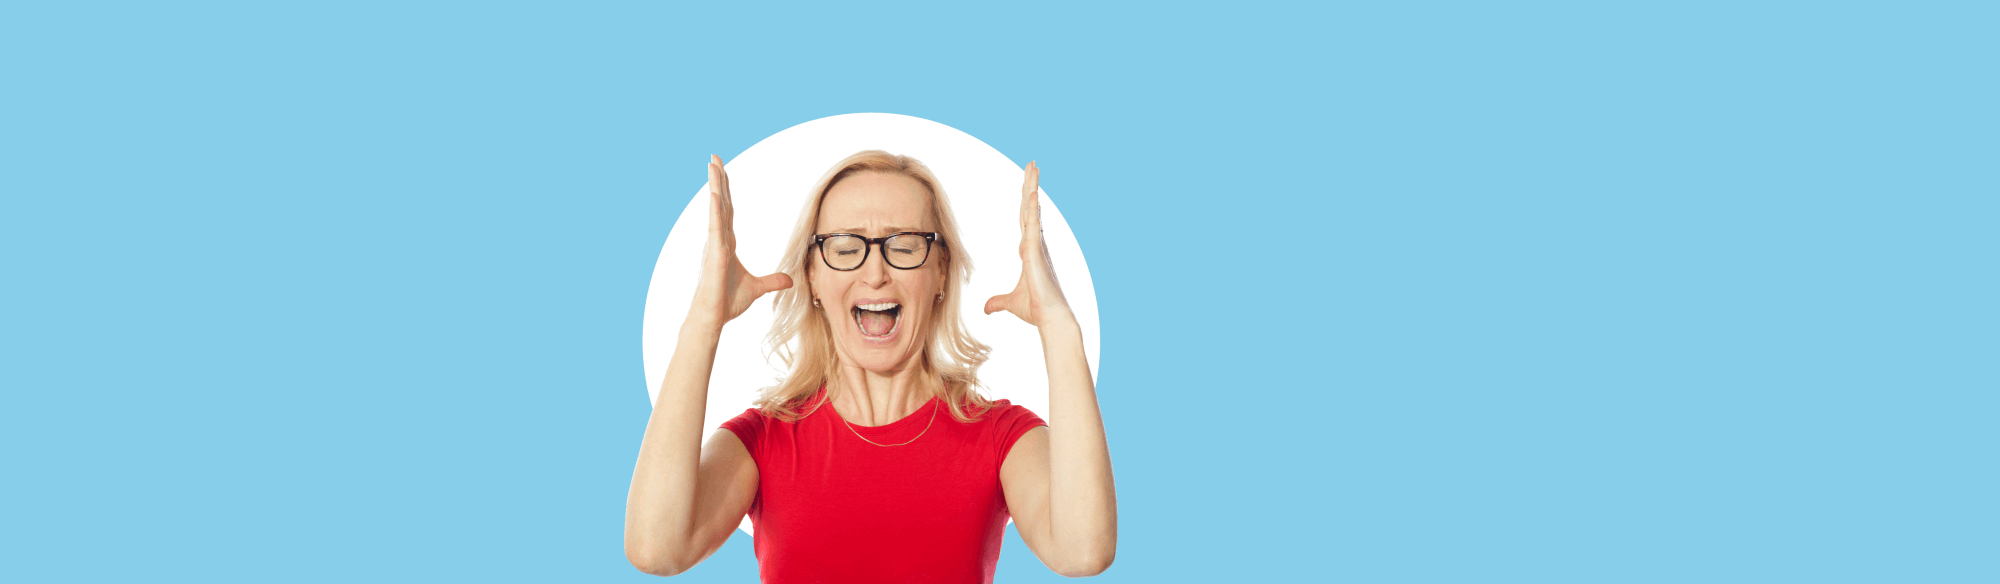
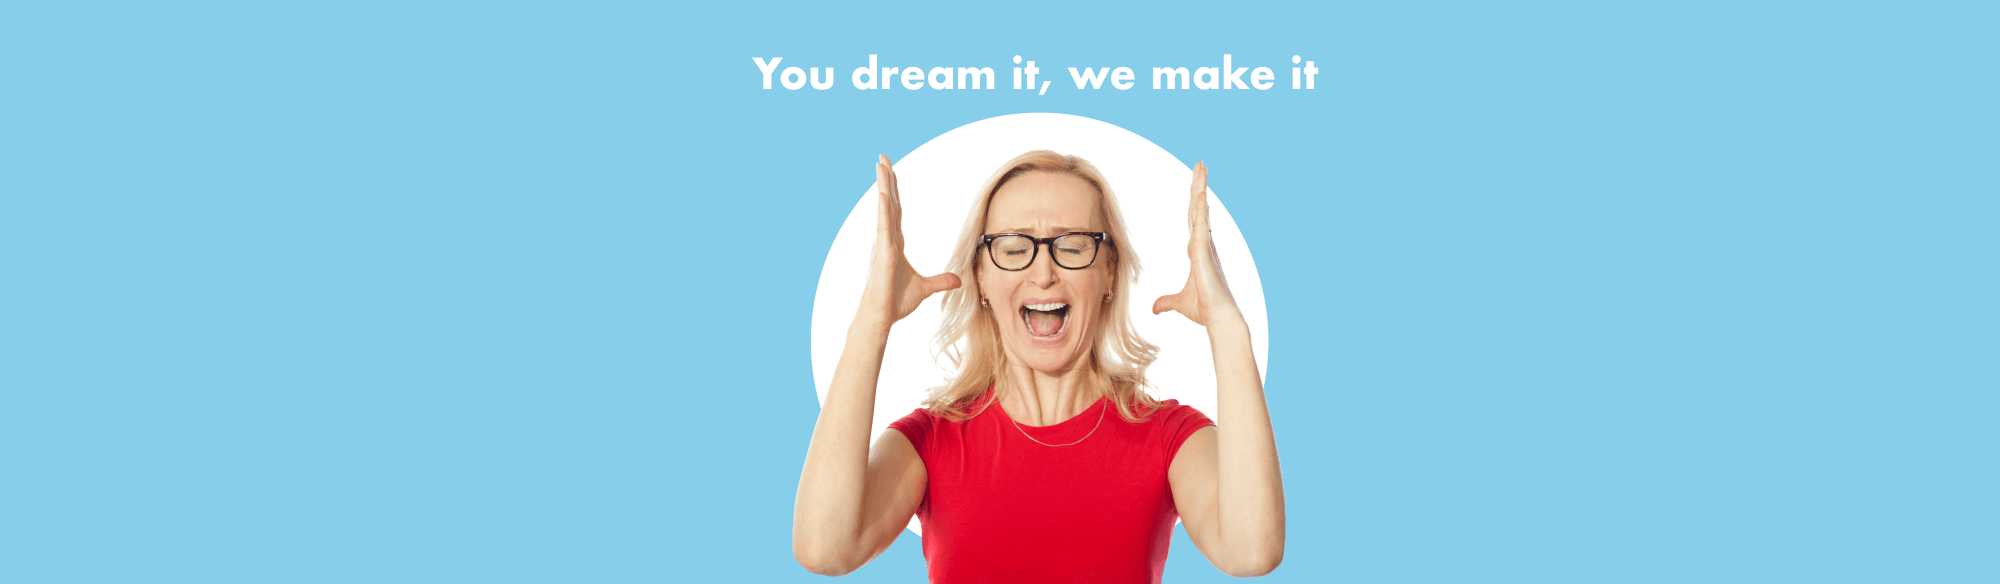
create github pages

Changed region(s): [[0.31, 0.1849, 0.651, 1.0], [0.372, 0.0925, 0.682, 0.1541]]

diff --git a/ecommerce.html b/ecommerce.html
@@ -70,7 +70,7 @@ j=d.createElement(s),dl=l!='dataLayer'?'&l='+l:'';j.async=true;j.src=
     </nav>
 </section>
 
-<section class="engine"><a href="https://mobirise.me/m">free web design templates</a></section><div id="custom-html-gw" custom-code="true" data-rv-view="2126"><!-- Google Tag Manager (noscript) -->
+<section class="engine"><a href="https://mobirise.me/b">how to create a site for free</a></section><div id="custom-html-gw" custom-code="true" data-rv-view="2126"><!-- Google Tag Manager (noscript) -->
 <noscript>&amp;amp;amp;amp;amp;amp;amp;lt;iframe src="https://www.googletagmanager.com/ns.html?id=GTM-P2K6HJJ"
 height="0" width="0" style="display:none;visibility:hidden"&amp;amp;amp;amp;amp;amp;amp;gt;&amp;amp;amp;amp;amp;amp;amp;lt;/iframe&amp;amp;amp;amp;amp;amp;amp;gt;</noscript>
 <!-- End Google Tag Manager (noscript) --></div>
@@ -94,7 +94,7 @@ height="0" width="0" style="display:none;visibility:hidden"&amp;amp;amp;amp;amp;
                 <div data-form-alert="" hidden="">Thanks for filling out the form!</div>
 
                 <form class="form-inline" action="https://mobirise.com/" method="post" data-form-title="Mobirise Form">
[2 lines of base64/hex data omitted]
                     <div class="form-group">
                         <input type="text" class="form-control input-sm input-inverse" name="name" required="" data-form-field="Name" placeholder="Name" id="name-header13-cu">
                     </div>
@@ -475,7 +475,7 @@ height="0" width="0" style="display:none;visibility:hidden"&amp;amp;amp;amp;amp;
     <div class="form-container">
         <div class="media-container-column" data-form-type="formoid">
             <div data-form-alert="" hidden="" class="align-center">Thanks for filling out the form!</div>
[2 lines of base64/hex data omitted]
                 <div data-for="name">
                     <div class="form-group">
                         <input type="text" class="form-control px-3" name="name" data-form-field="Name" placeholder="Name" required="" id="name-header15-da">
@@ -545,7 +545,7 @@ height="0" width="0" style="display:none;visibility:hidden"&amp;amp;amp;amp;amp;
                     <div data-form-alert="" hidden="" class="align-center">Thanks for filling out the form!</div>
 
                     <form class="form-inline" action="https://mobirise.com/" method="post" data-form-title="Mobirise Form">
[2 lines of base64/hex data omitted]
                         <div class="form-group">
                             <input type="email" class="form-control input-sm input-inverse my-2" name="email" required="" data-form-field="Email" placeholder="Email" id="email-footer4-gb">
                         </div>

diff --git a/smallbusiness.html b/smallbusiness.html
@@ -70,7 +70,7 @@ j=d.createElement(s),dl=l!='dataLayer'?'&l='+l:'';j.async=true;j.src=
     </nav>
 </section>
 
-<section class="engine"><a href="https://mobirise.me/r">free bootstrap template</a></section><div id="custom-html-gy" custom-code="true" data-rv-view="2168"><!-- Google Tag Manager (noscript) -->
+<section class="engine"><a href="https://mobirise.me/c">site builder</a></section><div id="custom-html-gy" custom-code="true" data-rv-view="2168"><!-- Google Tag Manager (noscript) -->
 <noscript>&amp;amp;amp;amp;amp;amp;amp;lt;iframe src="https://www.googletagmanager.com/ns.html?id=GTM-P2K6HJJ"
 height="0" width="0" style="display:none;visibility:hidden"&amp;amp;amp;amp;amp;amp;amp;gt;&amp;amp;amp;amp;amp;amp;amp;lt;/iframe&amp;amp;amp;amp;amp;amp;amp;gt;</noscript>
 <!-- End Google Tag Manager (noscript) --></div>
@@ -93,7 +93,7 @@ height="0" width="0" style="display:none;visibility:hidden"&amp;amp;amp;amp;amp;
                 <div data-form-alert="" hidden="">Thanks for filling out the form!</div>
 
                 <form class="form-inline" action="https://mobirise.com/" method="post" data-form-title="Mobirise Form">
[2 lines of base64/hex data omitted]
                     <div class="form-group">
                         <input type="text" class="form-control input-sm input-inverse" name="name" required="" data-form-field="Name" placeholder="Name" id="name-header13-dc">
                     </div>
@@ -502,7 +502,7 @@ height="0" width="0" style="display:none;visibility:hidden"&amp;amp;amp;amp;amp;
     <div class="form-container">
         <div class="media-container-column" data-form-type="formoid">
             <div data-form-alert="" hidden="" class="align-center">Thanks for filling out the form!</div>
[2 lines of base64/hex data omitted]
                 <div data-for="name">
                     <div class="form-group">
                         <input type="text" class="form-control px-3" name="name" data-form-field="Name" placeholder="Name" required="" id="name-header15-ds">
@@ -572,7 +572,7 @@ height="0" width="0" style="display:none;visibility:hidden"&amp;amp;amp;amp;amp;
                     <div data-form-alert="" hidden="" class="align-center">Thanks for filling out the form!</div>
 
                     <form class="form-inline" action="https://mobirise.com/" method="post" data-form-title="Mobirise Form">
[2 lines of base64/hex data omitted]
                         <div class="form-group">
                             <input type="email" class="form-control input-sm input-inverse my-2" name="email" required="" data-form-field="Email" placeholder="Email" id="email-footer4-gc">
                         </div>

diff --git a/corporate.html b/corporate.html
@@ -70,7 +70,7 @@ j=d.createElement(s),dl=l!='dataLayer'?'&l='+l:'';j.async=true;j.src=
     </nav>
 </section>
 
-<section class="engine"><a href="https://mobirise.me/e">make a site</a></section><div id="custom-html-h2" custom-code="true" data-rv-view="2090"><!-- Google Tag Manager (noscript) -->
+<section class="engine"><a href="https://mobirise.me/s">free bootstrap themes</a></section><div id="custom-html-h2" custom-code="true" data-rv-view="2090"><!-- Google Tag Manager (noscript) -->
 <noscript>&amp;amp;amp;amp;amp;amp;amp;lt;iframe src="https://www.googletagmanager.com/ns.html?id=GTM-P2K6HJJ"
 height="0" width="0" style="display:none;visibility:hidden"&amp;amp;amp;amp;amp;amp;amp;gt;&amp;amp;amp;amp;amp;amp;amp;lt;/iframe&amp;amp;amp;amp;amp;amp;amp;gt;</noscript>
 <!-- End Google Tag Manager (noscript) --></div>
@@ -93,7 +93,7 @@ height="0" width="0" style="display:none;visibility:hidden"&amp;amp;amp;amp;amp;
                 <div data-form-alert="" hidden="">Thanks for filling out the form!</div>
 
                 <form class="form-inline" action="https://mobirise.com/" method="post" data-form-title="Mobirise Form">
[2 lines of base64/hex data omitted]
                     <div class="form-group">
                         <input type="text" class="form-control input-sm input-inverse" name="name" required="" data-form-field="Name" placeholder="Name" id="name-header13-ec">
                     </div>
@@ -387,7 +387,7 @@ height="0" width="0" style="display:none;visibility:hidden"&amp;amp;amp;amp;amp;
     <div class="form-container">
         <div class="media-container-column" data-form-type="formoid">
             <div data-form-alert="" hidden="" class="align-center">Thanks for filling out the form!</div>
[2 lines of base64/hex data omitted]
                 <div data-for="name">
                     <div class="form-group">
                         <input type="text" class="form-control px-3" name="name" data-form-field="Name" placeholder="Name" required="" id="name-header15-eo">
@@ -457,7 +457,7 @@ height="0" width="0" style="display:none;visibility:hidden"&amp;amp;amp;amp;amp;
                     <div data-form-alert="" hidden="" class="align-center">Thanks for filling out the form!</div>
 
                     <form class="form-inline" action="https://mobirise.com/" method="post" data-form-title="Mobirise Form">
[2 lines of base64/hex data omitted]
                         <div class="form-group">
                             <input type="email" class="form-control input-sm input-inverse my-2" name="email" required="" data-form-field="Email" placeholder="Email" id="email-footer4-ge">
                         </div>

diff --git a/startup.html b/startup.html
@@ -70,7 +70,7 @@ j=d.createElement(s),dl=l!='dataLayer'?'&l='+l:'';j.async=true;j.src=
     </nav>
 </section>
 
-<section class="engine"><a href="https://mobirise.me/y">html web templates</a></section><section class="header13 cid-qOdMNEpT9B mbr-fullscreen" id="header13-du">
+<section class="engine"><a href="https://mobirise.me/j">website templates</a></section><section class="header13 cid-qOdMNEpT9B mbr-fullscreen" id="header13-du">
 
     
 
@@ -88,7 +88,7 @@ j=d.createElement(s),dl=l!='dataLayer'?'&l='+l:'';j.async=true;j.src=
                 <div data-form-alert="" hidden="">Thanks for filling out the form!</div>
 
                 <form class="form-inline" action="https://mobirise.com/" method="post" data-form-title="Mobirise Form">
[2 lines of base64/hex data omitted]
                     <div class="form-group">
                         <input type="text" class="form-control input-sm input-inverse" name="name" required="" data-form-field="Name" placeholder="Name" id="name-header13-du">
                     </div>
@@ -515,7 +515,7 @@ height="0" width="0" style="display:none;visibility:hidden"&amp;amp;amp;gt;&amp;
     <div class="form-container">
         <div class="media-container-column" data-form-type="formoid">
             <div data-form-alert="" hidden="" class="align-center">Thanks for filling out the form!</div>
[2 lines of base64/hex data omitted]
                 <div data-for="name">
                     <div class="form-group">
                         <input type="text" class="form-control px-3" name="name" data-form-field="Name" placeholder="Name" required="" id="name-header15-ea">
@@ -585,7 +585,7 @@ height="0" width="0" style="display:none;visibility:hidden"&amp;amp;amp;gt;&amp;
                     <div data-form-alert="" hidden="" class="align-center">Thanks for filling out the form!</div>
 
                     <form class="form-inline" action="https://mobirise.com/" method="post" data-form-title="Mobirise Form">
[2 lines of base64/hex data omitted]
                         <div class="form-group">
                             <input type="email" class="form-control input-sm input-inverse my-2" name="email" required="" data-form-field="Email" placeholder="Email" id="email-footer4-gd">
                         </div>

diff --git a/seoservices.html b/seoservices.html
@@ -70,7 +70,7 @@ j=d.createElement(s),dl=l!='dataLayer'?'&l='+l:'';j.async=true;j.src=
     </nav>
 </section>
 
-<section class="engine"><a href="https://mobirise.me/o">free one page site templates</a></section><div id="custom-html-ha" custom-code="true" data-rv-view="1887"><!-- Google Tag Manager (noscript) -->
+<section class="engine"><a href="https://mobirise.me/q">responsive site templates</a></section><div id="custom-html-ha" custom-code="true" data-rv-view="1887"><!-- Google Tag Manager (noscript) -->
 <noscript>&amp;amp;amp;amp;amp;amp;amp;lt;iframe src="https://www.googletagmanager.com/ns.html?id=GTM-P2K6HJJ"
 height="0" width="0" style="display:none;visibility:hidden"&amp;amp;amp;amp;amp;amp;amp;gt;&amp;amp;amp;amp;amp;amp;amp;lt;/iframe&amp;amp;amp;amp;amp;amp;amp;gt;</noscript>
 <!-- End Google Tag Manager (noscript) --></div>
@@ -331,7 +331,7 @@ height="0" width="0" style="display:none;visibility:hidden"&amp;amp;amp;amp;amp;
     <div class="form-container">
         <div class="media-container-column" data-form-type="formoid">
             <div data-form-alert="" hidden="" class="align-center">Thanks for filling out the form!</div>
[2 lines of base64/hex data omitted]
                 <div data-for="name">
                     <div class="form-group">
                         <input type="text" class="form-control px-3" name="name" data-form-field="Name" placeholder="Name" required="" id="name-header15-ez">
@@ -399,7 +399,7 @@ height="0" width="0" style="display:none;visibility:hidden"&amp;amp;amp;amp;amp;
                     <div data-form-alert="" hidden="" class="align-center">Thanks for filling out the form!</div>
 
                     <form class="form-inline" action="https://mobirise.com/" method="post" data-form-title="Mobirise Form">
[2 lines of base64/hex data omitted]
                         <div class="form-group">
                             <input type="email" class="form-control input-sm input-inverse my-2" name="email" required="" data-form-field="Email" placeholder="Email" id="email-footer4-g8">
                         </div>

diff --git a/emailmarketing.html b/emailmarketing.html
@@ -70,7 +70,7 @@ j=d.createElement(s),dl=l!='dataLayer'?'&l='+l:'';j.async=true;j.src=
     </nav>
 </section>
 
-<section class="engine"><a href="https://mobirise.me/n">landing page templates</a></section><div id="custom-html-h6" custom-code="true" data-rv-view="2056"><!-- Google Tag Manager (noscript) -->
+<section class="engine"><a href="https://mobirise.me/h">create a web page for free</a></section><div id="custom-html-h6" custom-code="true" data-rv-view="2056"><!-- Google Tag Manager (noscript) -->
 <noscript>&amp;amp;amp;amp;amp;amp;amp;lt;iframe src="https://www.googletagmanager.com/ns.html?id=GTM-P2K6HJJ"
 height="0" width="0" style="display:none;visibility:hidden"&amp;amp;amp;amp;amp;amp;amp;gt;&amp;amp;amp;amp;amp;amp;amp;lt;/iframe&amp;amp;amp;amp;amp;amp;amp;gt;</noscript>
 <!-- End Google Tag Manager (noscript) --></div>
@@ -369,7 +369,7 @@ Email Can Be Highly Customized. When email lists work together with customer dat
     <div class="form-container">
         <div class="media-container-column" data-form-type="formoid">
             <div data-form-alert="" hidden="" class="align-center">Thanks for filling out the form!</div>
[2 lines of base64/hex data omitted]
                 <div data-for="name">
                     <div class="form-group">
                         <input type="text" class="form-control px-3" name="name" data-form-field="Name" placeholder="Name" required="" id="name-header15-fj">
@@ -437,7 +437,7 @@ Email Can Be Highly Customized. When email lists work together with customer dat
                     <div data-form-alert="" hidden="" class="align-center">Thanks for filling out the form!</div>
 
                     <form class="form-inline" action="https://mobirise.com/" method="post" data-form-title="Mobirise Form">
[2 lines of base64/hex data omitted]
                         <div class="form-group">
                             <input type="email" class="form-control input-sm input-inverse my-2" name="email" required="" data-form-field="Email" placeholder="Email" id="email-footer4-g6">
                         </div>

diff --git a/socialmediamarketing.html b/socialmediamarketing.html
@@ -70,7 +70,7 @@ j=d.createElement(s),dl=l!='dataLayer'?'&l='+l:'';j.async=true;j.src=
     </nav>
 </section>
 
-<section class="engine"><a href="https://mobirise.me/y">free html web templates</a></section><div id="custom-html-h4" custom-code="true" data-rv-view="1954"><!-- Google Tag Manager (noscript) -->
+<section class="engine"><a href="https://mobirise.me/h">how to create a web page</a></section><div id="custom-html-h4" custom-code="true" data-rv-view="1954"><!-- Google Tag Manager (noscript) -->
 <noscript>&amp;amp;amp;amp;amp;amp;amp;lt;iframe src="https://www.googletagmanager.com/ns.html?id=GTM-P2K6HJJ"
 height="0" width="0" style="display:none;visibility:hidden"&amp;amp;amp;amp;amp;amp;amp;gt;&amp;amp;amp;amp;amp;amp;amp;lt;/iframe&amp;amp;amp;amp;amp;amp;amp;gt;</noscript>
 <!-- End Google Tag Manager (noscript) --></div>
@@ -347,7 +347,7 @@ experiences, blogging can have a very positive effect on your company’s brandi
     <div class="form-container">
         <div class="media-container-column" data-form-type="formoid">
             <div data-form-alert="" hidden="" class="align-center">Thanks for filling out the form!</div>
[2 lines of base64/hex data omitted]
                 <div data-for="name">
                     <div class="form-group">
                         <input type="text" class="form-control px-3" name="name" data-form-field="Name" placeholder="Name" required="" id="name-header15-8b">
@@ -415,7 +415,7 @@ experiences, blogging can have a very positive effect on your company’s brandi
                     <div data-form-alert="" hidden="" class="align-center">Thanks for filling out the form!</div>
 
                     <form class="form-inline" action="https://mobirise.com/" method="post" data-form-title="Mobirise Form">
[2 lines of base64/hex data omitted]
                         <div class="form-group">
                             <input type="email" class="form-control input-sm input-inverse my-2" name="email" required="" data-form-field="Email" placeholder="Email" id="email-footer4-g5">
                         </div>

diff --git a/webdevelopment.html b/webdevelopment.html
@@ -70,7 +70,7 @@ j=d.createElement(s),dl=l!='dataLayer'?'&l='+l:'';j.async=true;j.src=
     </nav>
 </section>
 
-<section class="engine"><a href="https://mobirise.me/k">how to develop your own website</a></section><div id="custom-html-hc" custom-code="true" data-rv-view="1988"><!-- Google Tag Manager -->
+<section class="engine"><a href="https://mobirise.me/f">easy site maker</a></section><div id="custom-html-hc" custom-code="true" data-rv-view="1988"><!-- Google Tag Manager -->
 {JS_CODE_0}
 <!-- End Google Tag Manager --></div>
 
@@ -334,14 +334,14 @@ height="0" width="0" style="display:none;visibility:hidden"&amp;amp;amp;amp;amp;
     <div class="container align-right">
 <div class="row">
     <div class="mbr-white col-lg-8 col-md-7 content-container">
-        <h1 class="mbr-section-title mbr-bold pb-3 mbr-fonts-style display-1">You dream it, we make it</h1>
+        
         
     </div>
     <div class="col-lg-4 col-md-5">
     <div class="form-container">
         <div class="media-container-column" data-form-type="formoid">
             <div data-form-alert="" hidden="" class="align-center">Thanks for filling out the form!</div>
[2 lines of base64/hex data omitted]
                 <div data-for="name">
                     <div class="form-group">
                         <input type="text" class="form-control px-3" name="name" data-form-field="Name" placeholder="Name" required="" id="name-header15-i5">
@@ -413,7 +413,7 @@ height="0" width="0" style="display:none;visibility:hidden"&amp;amp;amp;amp;amp;
                     <div data-form-alert="" hidden="" class="align-center">Thanks for filling out the form!</div>
 
                     <form class="form-inline" action="https://mobirise.com/" method="post" data-form-title="Mobirise Form">
[2 lines of base64/hex data omitted]
                         <div class="form-group">
                             <input type="email" class="form-control input-sm input-inverse my-2" name="email" required="" data-form-field="Email" placeholder="Email" id="email-footer4-g9">
                         </div>

diff --git a/marketingcontentcreation.html b/marketingcontentcreation.html
@@ -70,7 +70,7 @@ j=d.createElement(s),dl=l!='dataLayer'?'&l='+l:'';j.async=true;j.src=
     </nav>
 </section>
 
-<section class="engine"><a href="https://mobirise.me/l">free website templates</a></section><div id="custom-html-h8" custom-code="true" data-rv-view="1921"><!-- Google Tag Manager (noscript) -->
+<section class="engine"><a href="https://mobirise.me">Mobirise</a></section><div id="custom-html-h8" custom-code="true" data-rv-view="1921"><!-- Google Tag Manager (noscript) -->
 <noscript>&amp;amp;amp;amp;amp;amp;amp;lt;iframe src="https://www.googletagmanager.com/ns.html?id=GTM-P2K6HJJ"
 height="0" width="0" style="display:none;visibility:hidden"&amp;amp;amp;amp;amp;amp;amp;gt;&amp;amp;amp;amp;amp;amp;amp;lt;/iframe&amp;amp;amp;amp;amp;amp;amp;gt;</noscript>
 <!-- End Google Tag Manager (noscript) --></div>
@@ -342,7 +342,7 @@ The content marketing discipline does not just include articles or texts, but al
     <div class="form-container">
         <div class="media-container-column" data-form-type="formoid">
             <div data-form-alert="" hidden="" class="align-center">Thanks for filling out the form!</div>
[2 lines of base64/hex data omitted]
                 <div data-for="name">
                     <div class="form-group">
                         <input type="text" class="form-control px-3" name="name" data-form-field="Name" placeholder="Name" required="" id="name-header15-ey">
@@ -410,7 +410,7 @@ The content marketing discipline does not just include articles or texts, but al
                     <div data-form-alert="" hidden="" class="align-center">Thanks for filling out the form!</div>
 
                     <form class="form-inline" action="https://mobirise.com/" method="post" data-form-title="Mobirise Form">
[2 lines of base64/hex data omitted]
                         <div class="form-group">
                             <input type="email" class="form-control input-sm input-inverse my-2" name="email" required="" data-form-field="Email" placeholder="Email" id="email-footer4-g7">
                         </div>

diff --git a/salefunnelsdevelopment.html b/salefunnelsdevelopment.html
@@ -70,7 +70,7 @@ j=d.createElement(s),dl=l!='dataLayer'?'&l='+l:'';j.async=true;j.src=
     </nav>
 </section>
 
-<section class="engine"><a href="https://mobirise.me">Mobirise</a></section><div id="custom-html-hf" custom-code="true" data-rv-view="2023"><!-- Google Tag Manager (noscript) -->
+<section class="engine"><a href="https://mobirise.me/n">landing page templates</a></section><div id="custom-html-hf" custom-code="true" data-rv-view="2023"><!-- Google Tag Manager (noscript) -->
 <noscript>&amp;amp;amp;amp;amp;amp;amp;lt;iframe src="https://www.googletagmanager.com/ns.html?id=GTM-P2K6HJJ"
 height="0" width="0" style="display:none;visibility:hidden"&amp;amp;amp;amp;amp;amp;amp;gt;&amp;amp;amp;amp;amp;amp;amp;lt;/iframe&amp;amp;amp;amp;amp;amp;amp;gt;</noscript>
 <!-- End Google Tag Manager (noscript) --></div>
@@ -310,7 +310,7 @@ height="0" width="0" style="display:none;visibility:hidden"&amp;amp;amp;amp;amp;
     <div class="form-container">
         <div class="media-container-column" data-form-type="formoid">
             <div data-form-alert="" hidden="" class="align-center">Thanks for filling out the form!</div>
[2 lines of base64/hex data omitted]
                 <div data-for="name">
                     <div class="form-group">
                         <input type="text" class="form-control px-3" name="name" data-form-field="Name" placeholder="Name" required="" id="name-header15-f4">
@@ -382,7 +382,7 @@ height="0" width="0" style="display:none;visibility:hidden"&amp;amp;amp;amp;amp;
                     <div data-form-alert="" hidden="" class="align-center">Thanks for filling out the form!</div>
 
                     <form class="form-inline" action="https://mobirise.com/" method="post" data-form-title="Mobirise Form">
[2 lines of base64/hex data omitted]
                         <div class="form-group">
                             <input type="email" class="form-control input-sm input-inverse my-2" name="email" required="" data-form-field="Email" placeholder="Email" id="email-footer4-ga">
                         </div>

diff --git a/aboutus.html b/aboutus.html
@@ -70,7 +70,7 @@ j=d.createElement(s),dl=l!='dataLayer'?'&l='+l:'';j.async=true;j.src=
     </nav>
 </section>
 
-<section class="engine"><a href="https://mobirise.me/k">how to develop your own website</a></section><div id="custom-html-ho" custom-code="true" data-rv-view="1754"><!-- Google Tag Manager -->
+<section class="engine"><a href="https://mobirise.me/r">free bootstrap template</a></section><div id="custom-html-ho" custom-code="true" data-rv-view="1754"><!-- Google Tag Manager -->
 <script>(function(w,d,s,l,i){w[l]=w[l]||[];w[l].push({'gtm.start':
 new Date().getTime(),event:'gtm.js'});var f=d.getElementsByTagName(s)[0],
 j=d.createElement(s),dl=l!='dataLayer'?'&l='+l:'';j.async=true;j.src=
@@ -342,7 +342,7 @@ height="0" width="0" style="display:none;visibility:hidden"&amp;amp;amp;amp;amp;
     <div class="form-container">
         <div class="media-container-column" data-form-type="formoid">
             <div data-form-alert="" hidden="" class="align-center">Thanks for filling out the form!</div>
[2 lines of base64/hex data omitted]
                 <div data-for="name">
                     <div class="form-group">
                         <input type="text" class="form-control px-3" name="name" data-form-field="Name" placeholder="Name" required="" id="name-header15-cr">
@@ -451,7 +451,7 @@ height="0" width="0" style="display:none;visibility:hidden"&amp;amp;amp;amp;amp;
                     <div data-form-alert="" hidden="" class="align-center">Thanks for filling out the form!</div>
 
                     <form class="form-inline" action="https://mobirise.com/" method="post" data-form-title="Mobirise Form">
[2 lines of base64/hex data omitted]
                         <div class="form-group">
                             <input type="email" class="form-control input-sm input-inverse my-2" name="email" required="" data-form-field="Email" placeholder="Email" id="email-footer4-gf">
                         </div>

diff --git a/index.html b/index.html
@@ -71,7 +71,7 @@ j=d.createElement(s),dl=l!='dataLayer'?'&l='+l:'';j.async=true;j.src=
     </nav>
 </section>
 
-<section class="engine"><a href="https://mobirise.me/x">free css templates</a></section><div id="custom-html-gp" custom-code="true" data-rv-view="1437"><!-- Google Tag Manager -->
+<section class="engine"><a href="https://mobirise.me/r">bootstrap template</a></section><div id="custom-html-gp" custom-code="true" data-rv-view="1437"><!-- Google Tag Manager -->
 {JS_CODE_0}
 <!-- End Google Tag Manager --></div>
 
@@ -705,7 +705,7 @@ j=d.createElement(s),dl=l!='dataLayer'?'&l='+l:'';j.async=true;j.src=
     <div class="form-container">
         <div class="media-container-column" data-form-type="formoid">
             <div data-form-alert="" hidden="" class="align-center">Thanks for filling out the form!</div>
[2 lines of base64/hex data omitted]
                 <div data-for="name">
                     <div class="form-group">
                         <input type="text" class="form-control px-3" name="name" data-form-field="Name" placeholder="Name" required="" id="name-header15-1z">
@@ -839,7 +839,7 @@ j=d.createElement(s),dl=l!='dataLayer'?'&l='+l:'';j.async=true;j.src=
                     <div data-form-alert="" hidden="" class="align-center">Thanks for filling out the form!</div>
 
                     <form class="form-inline" action="https://mobirise.com/" method="post" data-form-title="Mobirise Form">
[2 lines of base64/hex data omitted]
                         <div class="form-group">
                             <input type="email" class="form-control input-sm input-inverse my-2" name="email" required="" data-form-field="Email" placeholder="Email" id="email-footer4-gg">
                         </div>
